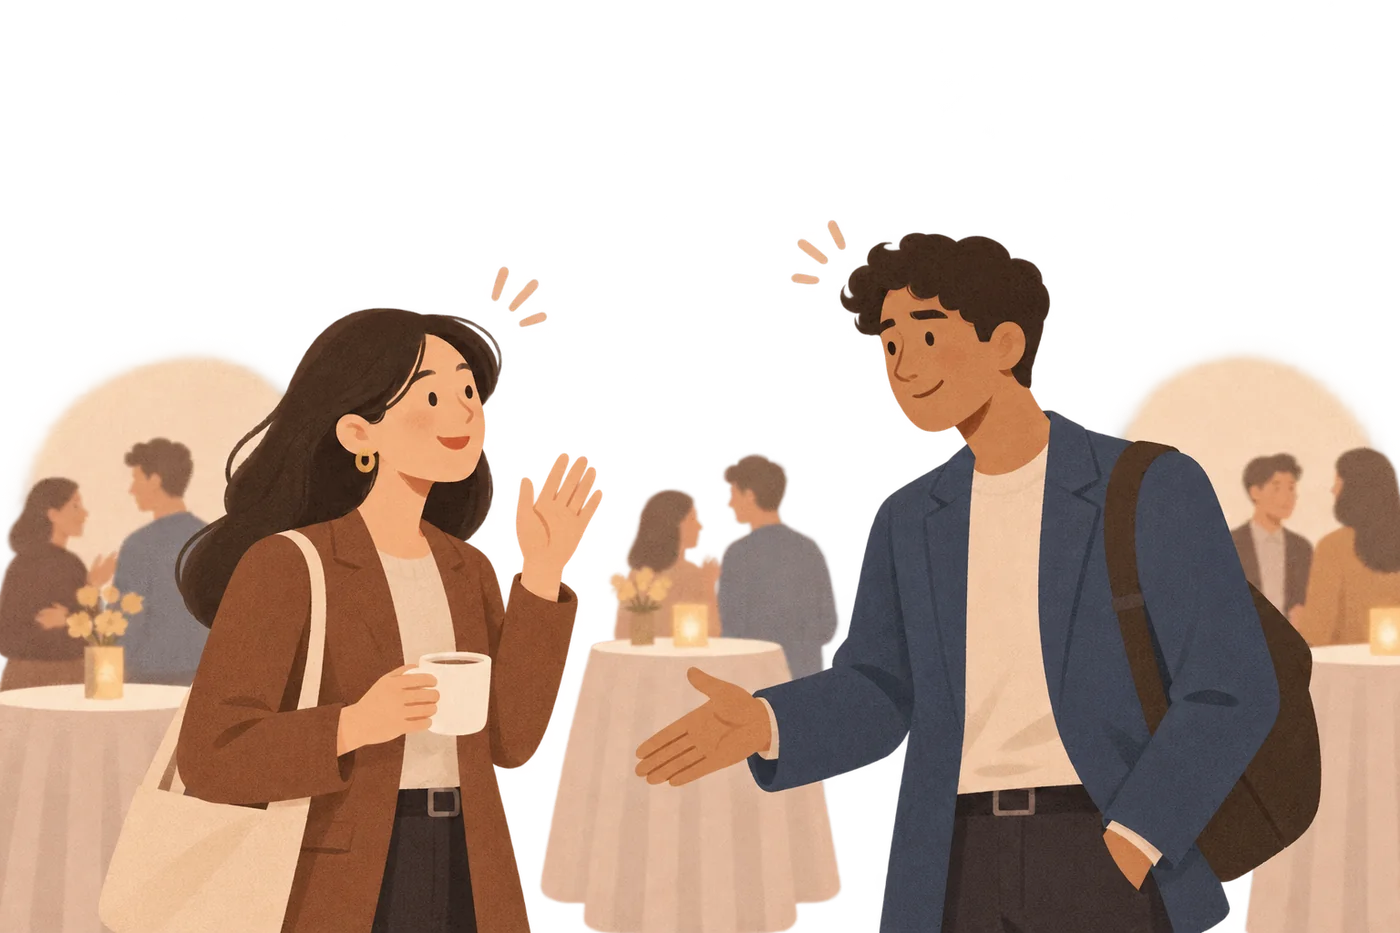
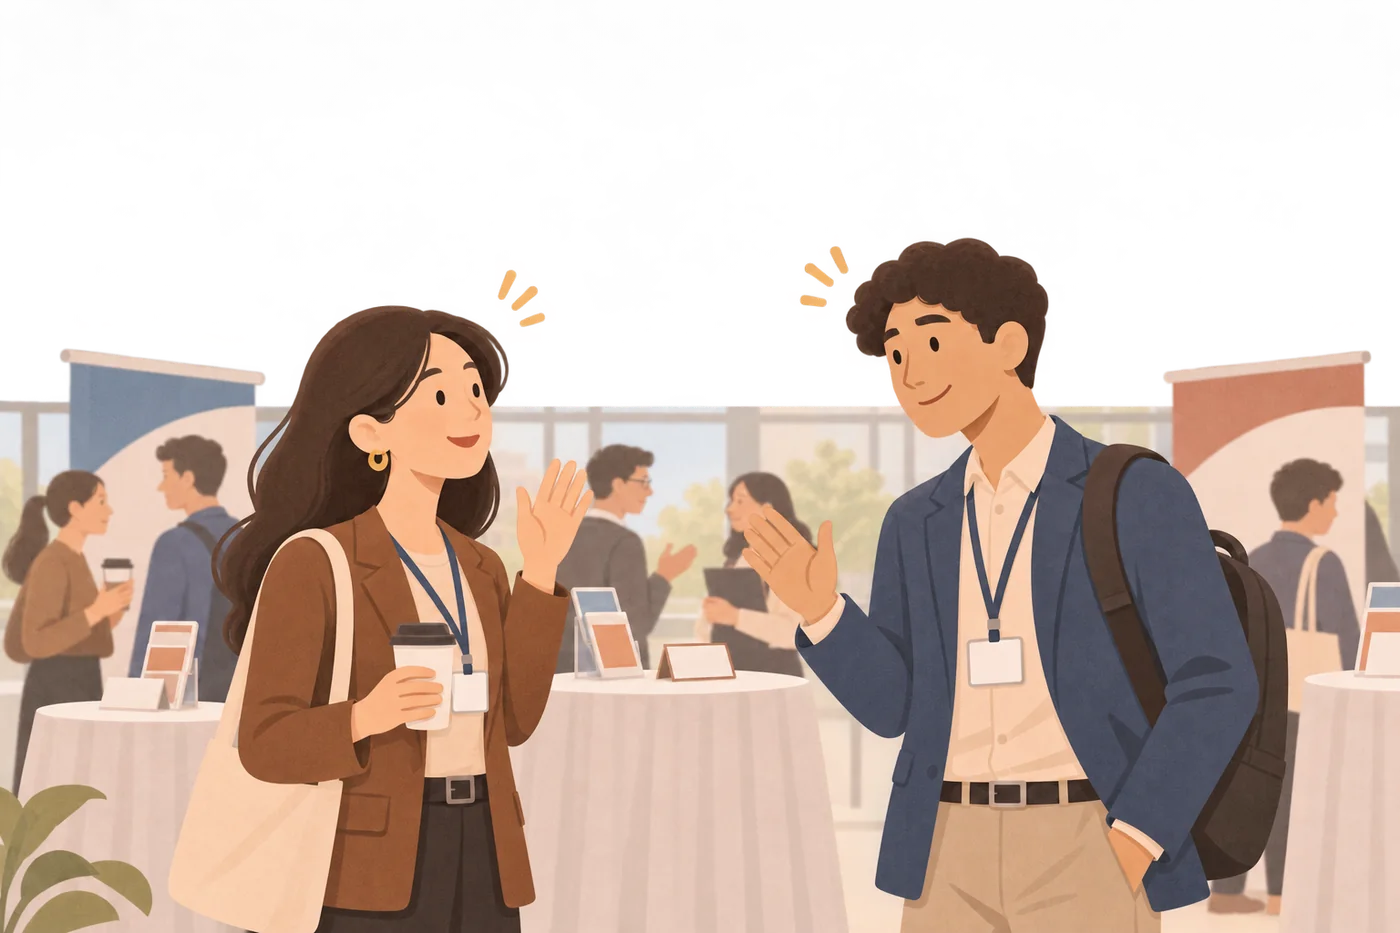
Hero: new professional career-fair scenes in three acts (Hi again! / Oops… / Oh right!)
- Act 1: wave hello; Act 2: she checks her phone with animated typing dots, he scratches his head ('When did we last talk…?'); Act 3: both remember, a compact memory card pops up above them
- Scenes fade into the page on the sides and bottom; old arch backdrop removed

Claude-Session: https://claude.ai/code/session_01FwHHpFFJ8iHBprAnEvXP39

diff --git a/src/pages/Landing.tsx b/src/pages/Landing.tsx
@@ -9,9 +9,9 @@ const IMG = (name: string) => `/landing/${name}.webp`;
 
 // Hero story, in three acts that loop: meet again → blank on details → one tap brings it back.
 const ACTS = [
-  { label: "You meet again", ms: 3600 },
-  { label: "You both blank", ms: 2400 },
-  { label: "One tap, it’s all back", ms: 6000 },
+  { label: "Hi again!", ms: 3200 },
+  { label: "Oops…", ms: 3600 },
+  { label: "Oh right!", ms: 6000 },
 ] as const;
 
 const PAINS = [
@@ -355,10 +355,10 @@ function Hero({ onStart, signedIn }: { onStart: () => void; signedIn: boolean })
             }}>
             <Stage act={shown} />
           </div>
-          {/* Desktop/tablet: the app card floats over the scene */}
-          <div className={cx("hidden md:block absolute right-[-8px] lg:right-[-20px] bottom-[52px] w-[min(330px,58%)] transition-all duration-700 ease-[cubic-bezier(.22,1,.36,1)]",
-            shown === 2 ? "opacity-100 translate-y-0" : "opacity-0 translate-y-6 pointer-events-none")}>
-            <ContactCard />
+          {/* Desktop/tablet: a compact card pops up above their heads, like a shared memory, without hiding their faces */}
+          <div className={cx("hidden md:block absolute left-1/2 -translate-x-1/2 top-0 w-[min(340px,62%)] transition-all duration-700 ease-[cubic-bezier(.22,1,.36,1)]",
+            shown === 2 ? "opacity-100 translate-y-0" : "opacity-0 -translate-y-3 pointer-events-none")}>
+            <MemoryCard />
           </div>
           <Steps act={shown} onPick={pick} className="mt-4" />
           {/* Phone: the card appears below the steps, so the step labels stay readable */}
@@ -375,16 +375,24 @@ function Hero({ onStart, signedIn }: { onStart: () => void; signedIn: boolean })
 }
 
 function Stage({ act }: { act: number }) {
+  const scenes = ["hero-1", "hero-2", "hero-3"];
   return (
     <div className="relative w-full aspect-[3/2.1]" role="img"
-      aria-label="Two young professionals run into each other at a networking event. Both wonder when they last talked and what they discussed. She checks NextCup on her phone and sees their whole history.">
-      <div aria-hidden="true" className="absolute inset-x-[4%] top-[8%] bottom-0 rounded-t-[999px] rounded-b-[32px] bg-[color-mix(in_oklab,var(--peach)_55%,var(--card))] border border-line" />
-      <img src={IMG("hero-1")} alt="" draggable={false} width={1400} height={933} fetchPriority="high"
-        className={cx("absolute inset-x-0 bottom-0 w-full transition-opacity duration-700", act === 0 ? "opacity-100" : "opacity-0")} />
-      <img src={IMG("hero-2")} alt="" draggable={false} width={1400} height={933}
-        className={cx("absolute inset-x-0 bottom-0 w-full transition-opacity duration-700", act === 0 ? "opacity-0" : "opacity-100")} />
-      <Thought show={act === 0} className="left-[1%] top-[17%] md:top-[24%] w-[47%] md:w-[44%]" tail="left-[48%]" delay={250}>What did we chat about again?</Thought>
-      <Thought show={act === 0} className="right-[0%] top-[6%] md:top-[14%] w-[45%] md:w-[42%]" tail="left-[38%]" delay={900}>When did we last talk…?</Thought>
+      aria-label="Two young professionals meet again at a career fair. Neither remembers the details, so he scratches his head and she checks her phone. Then they both remember and happily pick up the conversation.">
+      {/* Scenes fade into the page on the sides and bottom */}
+      <div className="absolute inset-x-0 bottom-0 aspect-[3/2] [mask-image:linear-gradient(to_right,transparent,#000_7%,#000_93%,transparent),linear-gradient(to_top,transparent,#000_8%)] [mask-composite:intersect] [-webkit-mask-composite:source-in]">
+        {scenes.map((n, i) => (
+          <img key={n} src={IMG(n)} alt="" draggable={false} width={1400} height={933} fetchPriority={i === 0 ? "high" : undefined}
+            className={cx("absolute inset-0 w-full h-full transition-opacity duration-700", act === i ? "opacity-100" : "opacity-0")} />
+        ))}
+      </div>
+      {/* Act 2: she is searching ("typing" dots), he is trying to remember */}
+      <Thought show={act === 1} className="left-[20%] top-[14%] md:top-[16%]" tail="left-[60%]" delay={200}>
+        <span className="typing-bounce inline-flex items-center gap-1 px-1 py-1">
+          <span className="w-2 h-2 md:w-2.5 md:h-2.5 rounded-full bg-fg-3" /><span className="w-2 h-2 md:w-2.5 md:h-2.5 rounded-full bg-fg-3" /><span className="w-2 h-2 md:w-2.5 md:h-2.5 rounded-full bg-fg-3" />
+        </span>
+      </Thought>
+      <Thought show={act === 1} className="right-[1%] -top-[4%] md:top-[5%] w-[46%] md:w-[40%]" tail="left-[30%]" delay={700}>When did we last talk…?</Thought>
     </div>
   );
 }
@@ -421,6 +429,23 @@ function Steps({ act, onPick, className }: { act: number; onPick: (i: number) =>
 }
 
 /** Mock contact card for the hero. The person is fictional and labelled as an example. */
+/** Compact version of the example card for the hero scene. */
+function MemoryCard() {
+  return (
+    <div className="rounded-2xl bg-card/95 backdrop-blur border border-line-2 shadow-lift px-3.5 py-3 flex flex-col gap-2 text-left">
+      <div className="flex items-center gap-2.5">
+        <span className="grid place-items-center w-9 h-9 rounded-full bg-blue-soft text-on-blue-soft font-semibold text-[13px] shrink-0">ML</span>
+        <div className="min-w-0 flex-1">
+          <p className="font-semibold text-[14px] leading-tight">Marcus Lee <span className="font-normal text-fg-3">· PM, fintech</span></p>
+          <p className="text-[12px] text-fg-2 flex items-center gap-1"><Icon name="history" className="text-[14px] text-brand" />Last chat: Sep 18, 7 weeks ago</p>
+        </div>
+        <span className="label-caps !text-[9px] text-fg-3 border border-line rounded-full px-1.5 py-0.5">Example</span>
+      </div>
+      <p className="rounded-lg ai-glow border border-line px-2.5 py-1.5 text-[12.5px]"><span className="font-semibold text-on-peach">Ask: </span>“How did the intern demo day go?”</p>
+    </div>
+  );
+}
+
 function ContactCard() {
   return (
     <div className="rounded-2xl bg-card border border-line-2 shadow-lift p-4 flex flex-col gap-3 text-left">

diff --git a/src/index.css b/src/index.css
@@ -127,6 +127,9 @@ input, textarea, select { font: inherit; color: inherit; }
 .rise { animation: rise .35s cubic-bezier(.22,1,.36,1) both; }
 @keyframes pulse-dot { 0%,100% { opacity: .35 } 50% { opacity: 1 } }
 .typing span { animation: pulse-dot 1.2s infinite; }
+@keyframes typing-bounce { 0%,60%,100% { transform: translateY(0); opacity: .45; } 30% { transform: translateY(-4px); opacity: 1; } }
+.typing-bounce span { animation: typing-bounce 1.1s ease-in-out infinite; }
+.typing-bounce span:nth-child(2) { animation-delay: .15s } .typing-bounce span:nth-child(3) { animation-delay: .3s }
 .typing span:nth-child(2) { animation-delay: .2s } .typing span:nth-child(3) { animation-delay: .4s }
 /* Footer: team name with a slow gold shine sweeping across, plus a twinkle */
 .catalysts-shine {
